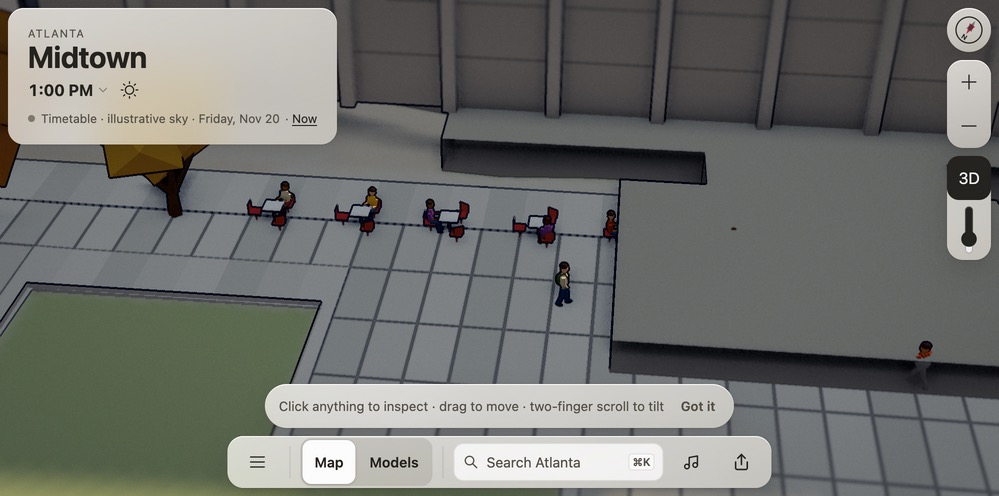
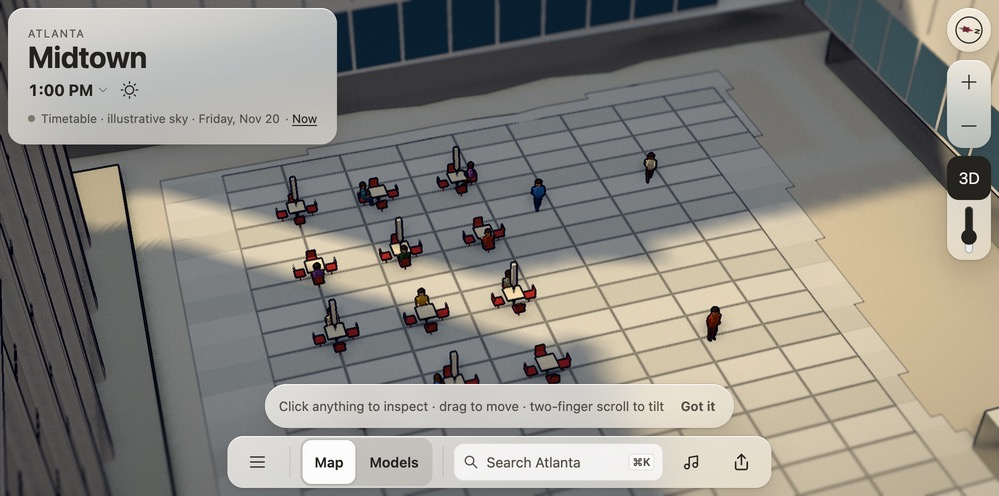
Move the High's café tables into the Sifly Piazza grove
Sam couldn't find the six tables against the Memorial wall at his usual
orbit. Photographs and a leaf-on aerial place the café in a gridded tree
grove in the paved square, so twelve tables with four red chairs, warm
pale tops and furled cream umbrellas now stand there. Ten visitors sit at
lunch, and walkers cross the square clear of the grove.

diff --git a/web/src/city/midtown-culture-high.ts b/web/src/city/midtown-culture-high.ts
@@ -239,6 +239,8 @@ export interface PiazzaSpec {
   stairLanding?: number;
   /** Bistro tables and benches; positions are illustrative. */
   tables: P2[];
+  /** Market umbrellas through alternate tables, if any. */
+  umbrellas?: 'furled' | 'open';
   benches: P2[];
 }
 
@@ -341,14 +343,15 @@ export function siflyPiazza(body: Builder, spec: PiazzaSpec, ground: (u: number,
     for (const s of [-w - 0.12, w + 0.12])
       body.quad(q(0, s, yTop - 0.1), q(0, s, yTop + 0.45), q(len, s, yFoot + 0.45), q(len, s, yFoot - 0.1), curb);
   }
-  // Café seating: round white tables with three red wire chairs each.
-  for (const [u, v] of spec.tables) {
+  // Café grove seating: round tables with four red-cushioned wire chairs each,
+  // in the loose grid the photographs show. Warm pale tops stand out from the paving.
+  spec.tables.forEach(([u, v], t) => {
     const g = ground(u, v);
-    if (g === null) continue;
+    if (g === null) return;
     body.box(0.08, 0.72, 0.08, u, g + 0.36, v, '#9a9b98');
-    body.box(0.75, 0.04, 0.75, u, g + 0.74, v, '#efefec');
-    for (let c = 0; c < 3; c++) {
-      const a = (c * 2 * Math.PI) / 3,
+    body.box(0.8, 0.04, 0.8, u, g + 0.74, v, '#f5ead4');
+    for (let c = 0; c < 4; c++) {
+      const a = (c * Math.PI) / 2,
         cu = u + 0.72 * Math.cos(a),
         cv = v + 0.72 * Math.sin(a);
       body.box(0.44, 0.05, 0.44, cu, g + 0.45, cv, '#c44a4f');
@@ -366,7 +369,25 @@ export function siflyPiazza(body: Builder, spec: PiazzaSpec, ground: (u: number,
         '#c44a4f',
       );
     }
-  }
+    // Cream market umbrellas through alternate tables, furled out of season.
+    if (!spec.umbrellas || (t + Math.floor(t / 4)) % 2) return;
+    body.box(0.05, 2.5, 0.05, u, g + 1.25, v, '#d8d4ca');
+    const cream = '#f4ecdc';
+    if (spec.umbrellas === 'furled') {
+      body.box(0.22, 1.2, 0.22, u, g + 1.85, v, cream);
+      return;
+    }
+    // Open: a shallow octagonal cone, 2.6 m across.
+    const apex = [u, g + 2.65, v];
+    for (let k = 0; k < 8; k++) {
+      const a0 = (k * Math.PI) / 4 + Math.PI / 8,
+        a1 = a0 + Math.PI / 4;
+      const p0 = [u + 1.3 * Math.cos(a0), g + 2.2, v + 1.3 * Math.sin(a0)],
+        p1 = [u + 1.3 * Math.cos(a1), g + 2.2, v + 1.3 * Math.sin(a1)];
+      body.tri(p1, p0, apex, cream);
+      body.tri(p0, p1, apex, '#d9cfbc');
+    }
+  });
   for (const [u, v] of spec.benches) {
     const g = ground(u, v);
     if (g === null) continue;

diff --git a/web/src/city/high-visitors.ts b/web/src/city/high-visitors.ts
@@ -27,9 +27,10 @@ function world(u: number, v: number): P2 {
   return [550 + c * u - s * v, -3990 + s * u + c * v];
 }
 const ramp = campus.museum.ramp;
-// Lawn coordinates follow the archived footway from the Peachtree steps.
+// Lawn coordinates follow the archived footway from the Peachtree steps; the
+// first walk skirts the café grove's north edge on its way there.
 const paths = [
-  new Line([world(-42, 19), world(-29, 24), world(-13, 24), world(12, 24)]),
+  new Line([world(-50, 14), world(-31, 14.5), world(-29, 24), world(-13, 24), world(12, 24)]),
   new Line([ramp.foot, ramp.head] as P2[]),
   new Line([
     [619.61, -3987.83],
@@ -37,7 +38,8 @@ const paths = [
     [593.19, -3972.93],
     [584.07, -3970.85],
   ]),
-  new Line([world(-23, 5), world(-23, 17), world(-19, 23)]),
+  // Across the open square, clear of the café grove.
+  new Line([world(-52, 6), world(-40, 10), world(-26, 8), world(-14, 2)]),
 ];
 export const highVisitorTier = 'illustrative' as const;
 export const highWalkers = Array.from({ length: 8 }, (_, i) => {
@@ -55,9 +57,22 @@ export const highWalkers = Array.from({ length: 8 }, (_, i) => {
   return { person, path, tier: highVisitorTier };
 });
 
-export const highSeats = [1, 4, 0, 3, 5, 2].map((tableIndex, i) => {
+// [table, chair]: chairs stand at quarter turns, chair 0 toward +u.
+const seatings = [
+  [1, 0],
+  [6, 2],
+  [4, 1],
+  [11, 3],
+  [2, 2],
+  [9, 0],
+  [7, 1],
+  [0, 3],
+  [10, 2],
+  [5, 0],
+];
+export const highSeats = seatings.map(([tableIndex, chair], i) => {
   const [u, v] = campus.museum.piazza.tables[tableIndex];
-  const theta = ((i % 3) * 2 * Math.PI) / 3;
+  const theta = (chair * Math.PI) / 2;
   const [x, z] = world(u + 0.72 * Math.cos(theta), v + 0.72 * Math.sin(theta));
   const table = world(u, v);
   return {
@@ -69,6 +84,10 @@ export const highSeats = [1, 4, 0, 3, 5, 2].map((tableIndex, i) => {
     tier: highVisitorTier,
   };
 });
+/** Seated café visitors for a museum crowd: ten at the lunch peak, none after close. */
+export function highSeated(crowd: number) {
+  return Math.min(highSeats.length, Math.round(crowd * 1.25));
+}
 
 export function highWalkerPose(walker: (typeof highWalkers)[number], seconds: number, ground: Ground) {
   const p = travellerAt(walker.person, seconds);

diff --git a/web/src/city/high-visitors.test.ts b/web/src/city/high-visitors.test.ts
@@ -1,5 +1,6 @@
 import { expect, it } from 'vitest';
-import { highSeats, highWalkerPose, highWalkers, museumCrowd } from './high-visitors';
+import campus from './fixtures/arts-campus.json';
+import { highSeated, highSeats, highWalkerPose, highWalkers, museumCrowd } from './high-visitors';
 
 it('uses Atlanta museum hours across both daylight-saving offsets', () => {
   const crowd = (time: string) => museumCrowd(Date.parse(time));
@@ -23,4 +24,23 @@ it('places visitors on the ramp deck and faces café chairs toward their tables'
     expect(seat.x + 0.72 * Math.sin(seat.angle)).toBeCloseTo(seat.table[0], 6);
     expect(seat.z + 0.72 * Math.cos(seat.angle)).toBeCloseTo(seat.table[1], 6);
   }
+});
+
+it('seats ten at lunch and nobody after close', () => {
+  expect(highSeated(museumCrowd(Date.parse('2026-11-20T18:00:00Z')))).toBe(10);
+  expect(highSeated(museumCrowd(Date.parse('2026-11-21T04:00:00Z')))).toBe(0);
+  expect(highSeats).toHaveLength(10);
+  expect(new Set(highSeats.map((s) => `${s.x},${s.z}`)).size).toBe(highSeats.length);
+});
+
+it('keeps walkers clear of the café grove chairs', () => {
+  const angle = Math.atan2(-0.479, 0.878);
+  const [c, s] = [Math.cos(angle), Math.sin(angle)];
+  const tables = campus.museum.piazza.tables.map(([u, v]) => [550 + c * u - s * v, -3990 + s * u + c * v]);
+  for (const walker of highWalkers)
+    for (let t = 0; t < 600; t += 0.5) {
+      const p = highWalkerPose(walker, t, () => 0);
+      if (!p) continue;
+      for (const [x, z] of tables) expect(Math.hypot(p.x - x, p.z - z)).toBeGreaterThan(1.3);
+    }
 });

diff --git a/web/src/city/street-figures.ts b/web/src/city/street-figures.ts
@@ -2,7 +2,7 @@
 // Parts are shared across the whole board. Only the instance transforms move.
 import * as THREE from 'three';
 import { FigureBuilder, figureLooks, figureMaterial } from './figure-looks';
-import { highSeats, highWalkers, highWalkerPose, museumCrowd } from './high-visitors';
+import { highSeated, highSeats, highWalkers, highWalkerPose, museumCrowd } from './high-visitors';
 import { strideAngle, travelSpeed, travellerAt, type Traveller } from './walkways';
 
 type XYZ = [number, number, number];
@@ -295,7 +295,7 @@ export class StreetFigures {
         const p = highWalkerPose(visitor,tick*step/1000,this.museumGround);
         if (p) draw(visitor.person,p,p.y);
       }
-      if (this.seated) for (let i = 0; i < this.crowd - 2; i++) {
+      if (this.seated) for (let i = 0; i < highSeated(this.crowd); i++) {
         const seat = highSeats[i];
         const g = this.museumGround(...seat.table);
         if (g === null) continue;

diff --git a/web/src/city/street-figures.test.ts b/web/src/city/street-figures.test.ts
@@ -109,7 +109,7 @@ it.each([true, false])('reuses City batches for museum visitors and empties them
   expect(new Set(meshes.map(m => m.material)).size).toBe(1);
   figures.update(Date.parse('2026-11-20T13:00:00-05:00'), camera, 100);
   const count = () => meshes.reduce((sum, mesh) => sum + mesh.count, 0);
-  expect(count()).toBe(low ? 8 : 14);
+  expect(count()).toBe(low ? 8 : 18);
   figures.update(Date.parse('2026-11-20T23:00:00-05:00'), camera, 100);
   expect(count()).toBe(0);
   figures.dispose();

diff --git a/web/src/city/arts-campus.ts b/web/src/city/arts-campus.ts
@@ -376,6 +376,8 @@ export function createArtsCampusLandmark(
         stair: pz.stair as [P2, P2],
         stairLanding: pz.stairLanding,
         tables: pz.tables as P2[],
+        // March and December photographs show them furled or gone.
+        umbrellas: 'furled',
         benches: pz.benches as P2[],
       },
       (u, v) => {

diff --git a/docs/arts-campus.md b/docs/arts-campus.md
@@ -25,7 +25,7 @@ The matched camera targets (565, −3965), bearing −101°, tilt 55°, at 0.33 
 
 **Ginkgo planting spot (for the tree agent; City models no tree here).** Trees Atlanta lists Atlanta's champion ginkgo at 33.789866, −84.384916, which is City (617.9, −3999.2). An OSM tree node sits 1.1 m away. The record gives 27.5 m height, 26.2 m spread and a 186 in circumference, about 1.5 m DBH. It stands on the Peachtree lawn south of the ramp, about 12 m south of the ramp centreline and about 10.7 m from its south parapet. It is not in Sifly Piazza. Rodin's *The Shade* stands to its west. A leaf-on Esri export puts the crown centre near (615, −4005), consistent with the record within the crown radius. My first pick, from leaf-off branch shadows, sat 4–5 m too far north. Nothing new in this change stands within 10 m of the trunk. [Champion tree service](https://services6.arcgis.com/BZn8g8tzu5WfMokL/arcgis/rest/services/TreeChampionData_2019/FeatureServer/0) · [Ginkgo and Rodin](https://commons.wikimedia.org/wiki/File:Ginkgo_tree_and_Rodin_at_the_Woodruff_Arts_Center.jpg)
 
-**Sifly Piazza.** Paving is now 1.5 × 3 m white concrete slabs in three close tones, with dark 0.1 m joints, laid on the rendered terrain. The slab size is estimated from a ground-level photograph. OSM maps a 330 m² lawn inside the old paved outline, at local u −10…10, v −4…23. It stays grass behind a low white curb. Leaf-off imagery shows it tan, as it shows the dormant Peachtree lawn. A mapped stair leaves the piazza's north edge through the passage between Stent and the Piano wing, at local u −13.6, v −9.3 → −20.1. 3DEP confirms the fall, about 3 m over 11 m. Most of the stair lies under the skybridge and is hard to see from City's cameras. Six bistro tables with red wire chairs stand in a row along the Memorial's north wall, and three benches face the lawn. The aerial shows table clusters there, but the exact count and positions are illustrative. Temporary installations such as the rope seating are left out. I found no reliable night photograph of the piazza, so City adds no piazza lighting. At night it reads by the Piano glazing and the Memorial lobby. Night coverage remains a gap. Six tables stand where the aerial shows clusters; two more in the first draft fell inside the Memorial link block. [Piazza paving and café seating](https://commons.wikimedia.org/wiki/File:Plaza_-_Flickr_-_hyku.jpg) · [OSM lawn and stair](https://www.openstreetmap.org/#map=20/33.78972/-84.38605)
+**Sifly Piazza.** Paving is now 1.5 × 3 m white concrete slabs in three close tones, with dark 0.1 m joints, laid on the rendered terrain. The slab size is estimated from a ground-level photograph. OSM maps a 330 m² lawn inside the old paved outline, at local u −10…10, v −4…23. It stays grass behind a low white curb. Leaf-off imagery shows it tan, as it shows the dormant Peachtree lawn. A mapped stair leaves the piazza's north edge through the passage between Stent and the Piano wing, at local u −13.6, v −9.3 → −20.1. 3DEP confirms the fall, about 3 m over 11 m. Most of the stair lies under the skybridge and is hard to see from City's cameras. The café seating is described under People at Sifly Piazza below. Three benches face the lawn. Temporary installations such as the rope seating are left out. I found no reliable night photograph of the piazza, so City adds no piazza lighting. At night it reads by the Piano glazing and the Memorial lobby. Night coverage remains a gap. [Piazza paving and café seating](https://commons.wikimedia.org/wiki/File:Plaza_-_Flickr_-_hyku.jpg) · [OSM lawn and stair](https://www.openstreetmap.org/#map=20/33.78972/-84.38605)
 
 | Matched camera in Five Points metres | High | Low |
 |---|---|---|
@@ -104,19 +104,58 @@ Nothing within the ginkgo's 9 m crown stands more than 1.5 m above the lawn. The
 
 ## People at Sifly Piazza
 
-The six existing bistro tables each have three chairs. At lunch the high tier
-fills one chair at each table. Eight walkers share the piazza paving, entry ramp
-and mapped Peachtree lawn path. The low tier shows the walkers. The figures use
-the existing City clothing palette and material. Visitor positions and attendance
-carry the illustrative tier in the visitor data.
+**Café grove (revised 2026-11-23 after Sam's review).** The first version set six
+tables in a row against the Memorial's north wall, under the Woodruff shadow, where
+they were hard to see at the usual orbit. The tables now stand where the photographs
+and aerial put them: a gridded grove in the paved square, along the Woodruff wall at
+the square's south-west edge, local u −48…−34.5, v 17…25. The leaf-on Esri aerial
+shows the grove's tree canopy at about u −50…−28, v 16…30. Beside it, four pale
+squares near u −33, v 10 look like open umbrellas. Photographs show a loose grid of
+12–15 round pedestal tables with four chairs each, inside a low cable rail among
+deciduous trees. City draws twelve tables in three rows of four. Each table has four
+red-cushioned chairs, a warm pale top (`#f5ead4`) that stands out from the grey
+paving, and a cream umbrella at every other table.
 
-The scene uses Atlanta local time. Tuesday through Sunday, the 12:00–14:00
-lunch peak falls within the busier 10:00–17:00 museum period. A few walkers
-linger into the evening. Monday daytime has one walker, and after 21:00 the
-museum crowd is empty. These are artistic estimates of activity. A fixed scene
-clock reproduces the same visitor positions, looks and gait.
+- **Chairs.** The 2006–07 photographs show white wire chairs with red seat pads.
+  Photographs from 2018 to 2023 show teal bistro chairs. City keeps the red chairs,
+  which Sam liked and which read better against the paving. The teal era is
+  recorded here.
+- **Umbrellas.** In March 2023 they were furled, and in July 2024 they were open on
+  weighted bases. A rainy December 2018 photograph shows none. I found no October
+  or November photograph, so City draws them furled. An open-umbrella variant
+  (`umbrellas: 'open'` in `arts-campus.ts`) was captured for Sam to choose from.
+- **Left out.** The grove's trees belong to the tree agent and are a gap. The cable
+  rail is too thin to read at City distances.
+- **Positions.** Exact table positions are illustrative.
 
-November 20, 2026, high tier. [Lunch](log/ui/high-visitors/lunch.jpg) and
-[full night](log/ui/high-visitors/night.jpg) use camera `565,-3965,-101,55,260`
-at 13:00 and 23:00 Eastern. [Café seating at 13:00](log/ui/high-visitors/tables.jpg)
-uses `557,-3963,145,55,48` with `&dev&mindist=20`.
+Sources:
+- [Plaza, 2006-03-28](https://commons.wikimedia.org/wiki/File:Plaza_-_Flickr_-_hyku.jpg)
+- [Table 1280 patio, 2007](https://www.flickr.com/photos/abardis/696583449/)
+- [Teal chairs, 2018-12-20](https://www.flickr.com/photos/doctorcasino/46599960995/)
+- [Furled umbrellas, 2023-03-10](https://www.flickr.com/photos/9115672@N05/52743396909/)
+- [Open umbrellas, 2024-07-14](https://www.flickr.com/photos/31673483@N00/53884854993/)
+- [Esri World Imagery](https://www.arcgis.com/home/item.html?id=10df2279f9684e4a9f6a7f08febac2a9)
+
+At lunch the high tier seats ten visitors around the grove. Eight walkers cross
+the open square, skirt the grove, climb the entry ramp and follow the mapped
+Peachtree lawn path. A test keeps every walker more than 1.3 m from each table.
+The low tier shows the walkers and the furniture but no seated figures. The figures
+use the existing City clothing palette and material. Visitor positions and
+attendance carry the illustrative tier in the visitor data.
+
+The scene uses Atlanta local time. Tuesday through Sunday, the 12:00–14:00 lunch
+peak falls within the busier 10:00–17:00 museum period. A few visitors linger into
+the evening. Monday daytime has one walker, and after 21:00 the museum crowd is
+empty. Seated visitors scale with the crowd, from ten at lunch to none after close.
+These are artistic estimates of activity. A fixed scene clock reproduces the same
+visitor positions, looks and gait.
+
+November 20, 2026, high tier:
+- [Lunch](log/ui/high-visitors/lunch.jpg) and [full night](log/ui/high-visitors/night.jpg)
+  use camera `565,-3965,-101,55,260` at 13:00 and 23:00 Eastern.
+- [Before and after](log/ui/high-visitors/compare-lunch.jpg) and
+  [furled or open umbrellas](log/ui/high-visitors/umbrella-options.jpg) use the
+  same camera.
+- [Café grove close-up](log/ui/high-visitors/tables.jpg) and the
+  [open-umbrella close-up](log/ui/high-visitors/tables-open.jpg) use
+  `520,-3955,-101,50,60` with `&dev&mindist=20`.

diff --git a/docs/build-log.md b/docs/build-log.md
@@ -3194,5 +3194,16 @@ Sifly Piazza already had six café tables and eighteen red chairs. At 13:00 on
 Friday, six visitors sit facing their tables while eight walkers cross the
 paving, climb the entry ramp and follow the lawn path. The ramp needed its own
 height calculation because the deck rises away from the ground beneath it.
-At 23:00 the tables and paths are quiet. [Café seats](log/ui/high-visitors/tables.jpg)
-· [lunchtime overview](log/ui/high-visitors/lunch.jpg) · [matched night](log/ui/high-visitors/night.jpg).
+At 23:00 the tables and paths are quiet.
+
+Sam couldn't find the tables at his usual 260 m orbit. They sat in the Woodruff
+shadow, tucked against a wall. A leaf-on aerial showed where the real café sits:
+in a gridded tree grove in the open square, beside four pale squares that turned
+out to be open umbrellas. The tables now stand there, twelve in three rows of four,
+with warm pale tops and furled cream umbrellas, because no November photograph
+shows them open. Ten visitors sit at lunch. The grove adds about 1,100 triangles
+to the existing shell batch, with no new draw or material.
+[Before and after](log/ui/high-visitors/compare-lunch.jpg) ·
+[café grove close-up](log/ui/high-visitors/tables.jpg) ·
+[day and night](log/ui/high-visitors/day-night.jpg) ·
+[furled or open umbrellas](log/ui/high-visitors/umbrella-options.jpg).
